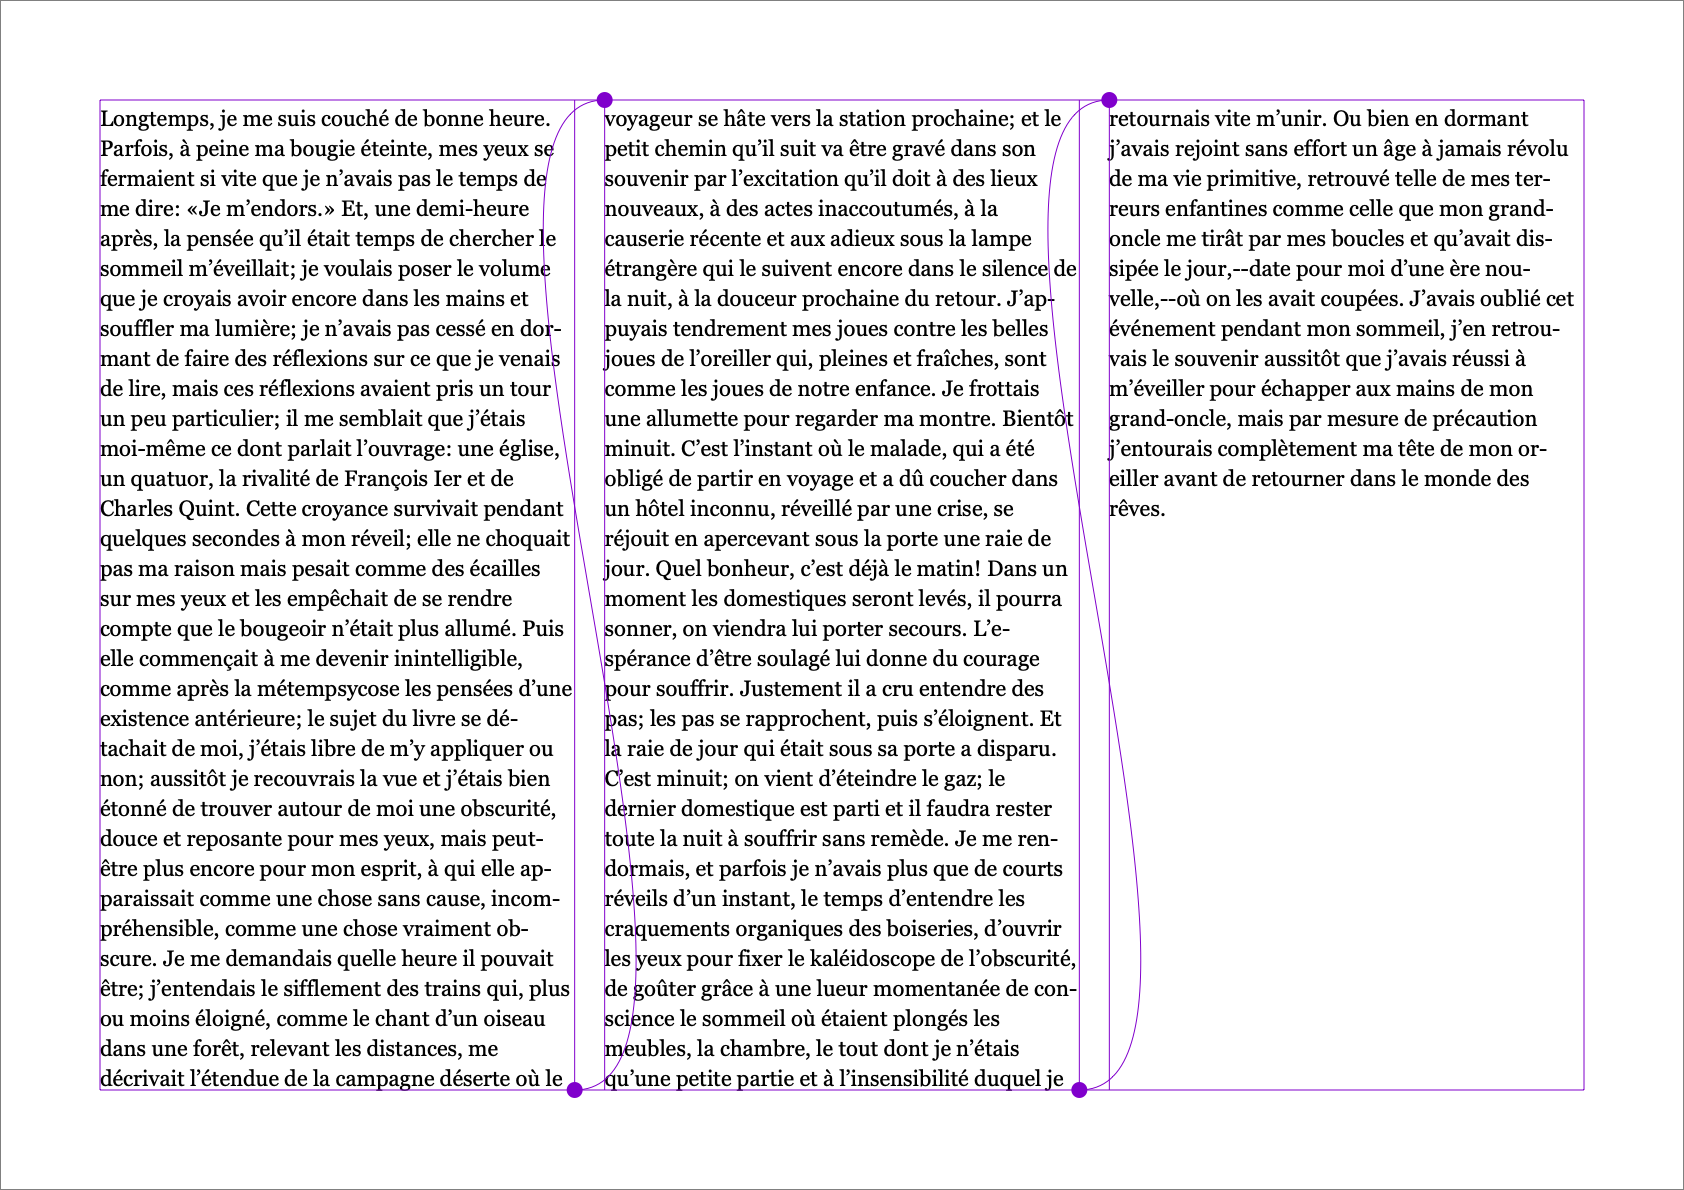
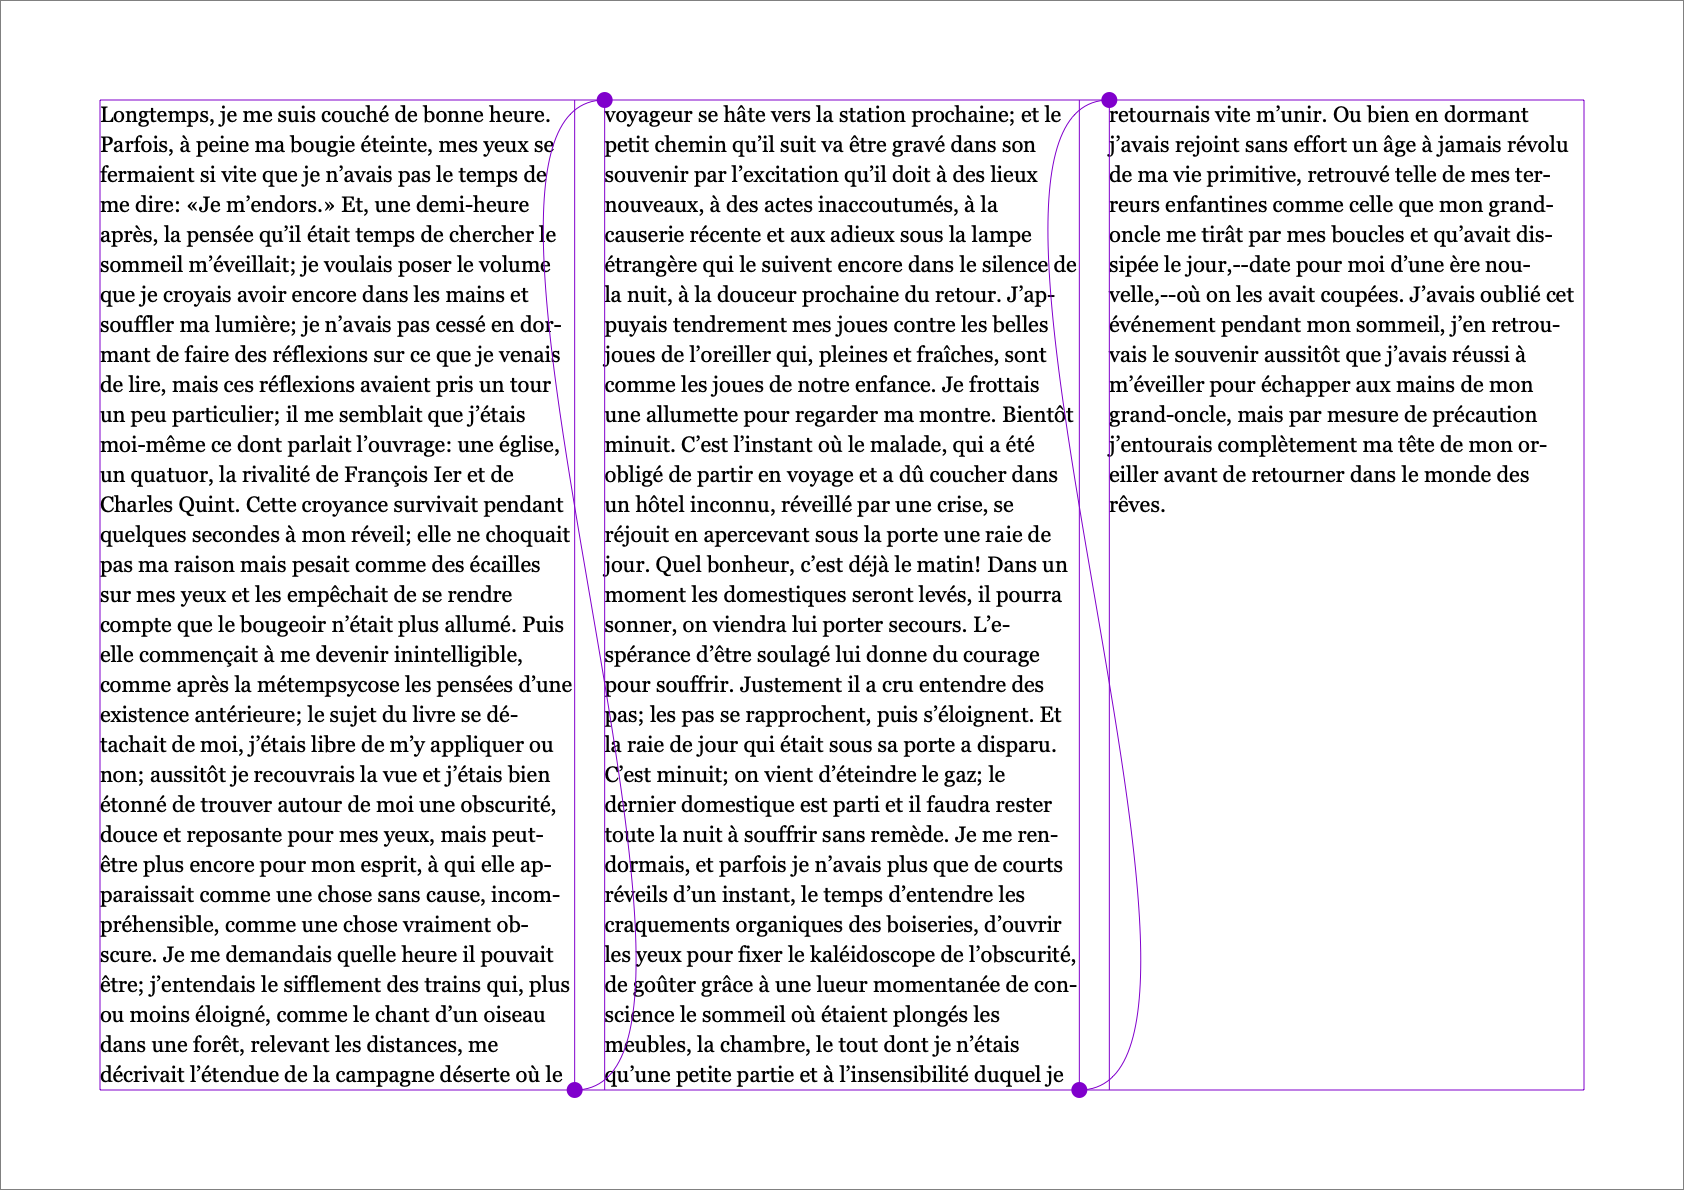
Add support for text overflow testing

Changed region(s): [[0.0618, 0.0933, 0.9264, 0.9328]]

diff --git a/drawBotGrid/docs/snippet-148-textOverflowTestMode.py b/drawBotGrid/docs/snippet-148-textOverflowTestMode.py
@@ -1,0 +1,42 @@
+from drawBot import *
+import pathlib
+
+# <include> ----------------------------------------
+from drawBotGrid import columnTextBox, textOverflowTestMode
+
+newPage("A4Landscape")
+
+# </include> ----------------------------------------
+fill(1, 1, 1, .5)
+rect(0, 0, width(), height())
+# <include> ----------------------------------------
+
+fill(0)
+font("Georgia")
+hyphenation(True)
+
+font_size = 11
+line_height_ratio = 1.3
+fontSize(font_size)
+lineHeight(font_size*line_height_ratio)
+
+text = """Longtemps, je me suis couché de bonne heure. Parfois, à peine ma bougie éteinte, mes yeux se fermaient si vite que je n’avais pas le temps de me dire: «Je m’endors.» Et, une demi-heure après, la pensée qu’il était temps de chercher le sommeil m’éveillait; je voulais poser le volume que je croyais avoir encore dans les mains et souffler ma lumière; je n’avais pas cessé en dormant de faire des réflexions sur ce que je venais de lire, mais ces réflexions avaient pris un tour un peu particulier; il me semblait que j’étais moi-même ce dont parlait l’ouvrage: une église, un quatuor, la rivalité de François Ier et de Charles Quint. Cette croyance survivait pendant quelques secondes à mon réveil; elle ne choquait pas ma raison mais pesait comme des écailles sur mes yeux et les empêchait de se rendre compte que le bougeoir n’était plus allumé. Puis elle commençait à me devenir inintelligible, comme après la métempsycose les pensées d’une existence antérieure; le sujet du livre se détachait de moi, j’étais libre de m’y appliquer ou non; aussitôt je recouvrais la vue et j’étais bien étonné de trouver autour de moi une obscurité, douce et reposante pour mes yeux, mais peut-être plus encore pour mon esprit, à qui elle apparaissait comme une chose sans cause, incompréhensible, comme une chose vraiment obscure. Je me demandais quelle heure il pouvait être; j’entendais le sifflement des trains qui, plus ou moins éloigné, comme le chant d’un oiseau dans une forêt, relevant les distances, me décrivait l’étendue de la campagne déserte où le voyageur se hâte vers la station prochaine; et le petit chemin qu’il suit va être gravé dans son souvenir par l’excitation qu’il doit à des lieux nouveaux, à des actes inaccoutumés, à la causerie récente et aux adieux sous la lampe étrangère qui le suivent encore dans le silence de la nuit, à la douceur prochaine du retour. J’appuyais tendrement mes joues contre les belles joues de l’oreiller qui, pleines et fraîches, sont comme les joues de notre enfance. Je frottais une allumette pour regarder ma montre. Bientôt minuit. C’est l’instant où le malade, qui a été obligé de partir en voyage et a dû coucher dans un hôtel inconnu, réveillé par une crise, se réjouit en apercevant sous la porte une raie de jour. Quel bonheur, c’est déjà le matin! Dans un moment les domestiques seront levés, il pourra sonner, on viendra lui porter secours. L’espérance d’être soulagé lui donne du courage pour souffrir. Justement il a cru entendre des pas; les pas se rapprochent, puis s’éloignent. Et la raie de jour qui était sous sa porte a disparu. C’est minuit; on vient d’éteindre le gaz; le dernier domestique est parti et il faudra rester toute la nuit à souffrir sans remède. Je me rendormais, et parfois je n’avais plus que de courts réveils d’un instant, le temps d’entendre les craquements organiques des boiseries, d’ouvrir les yeux pour fixer le kaléidoscope de l’obscurité, de goûter grâce à une lueur momentanée de conscience le sommeil où étaient plongés les meubles, la chambre, le tout dont je n’étais qu’une petite partie et à l’insensibilité duquel je retournais vite m’unir. Ou bien en dormant j’avais rejoint sans effort un âge à jamais révolu de ma vie primitive, retrouvé telle de mes terreurs enfantines comme celle que mon grand-oncle me tirât par mes boucles et qu’avait dissipée le jour,--date pour moi d’une ère nouvelle,--où on les avait coupées. J’avais oublié cet événement pendant mon sommeil, j’en retrouvais le souvenir aussitôt que j’avais réussi à m’éveiller pour échapper aux mains de mon grand-oncle, mais par mesure de précaution j’entourais complètement ma tête de mon oreiller avant de retourner dans le monde des rêves."""*4
+overflow = text
+
+textOverflowTestMode(True)
+while len(overflow):
+	font_size -= 1
+	fontSize(font_size)
+	lineHeight(font_size*line_height_ratio)
+	overflow = columnTextBox(text, (50, 50, width()-100, height()-100), subdivisions=3, gutter=15, draw_grid=True)
+textOverflowTestMode(False)
+
+columnTextBox(text, (50, 50, width()-100, height()-100), subdivisions=3, gutter=15, draw_grid=True)
+
+# </include> ----------------------------------------
+
+fill(None)
+stroke(.5)
+rect(0, 0, width(), height())
+out_path = pathlib.Path(__file__).with_suffix(".png")
+saveImage(out_path, imageResolution=144)

diff --git a/drawBotGrid/text.py b/drawBotGrid/text.py
@@ -4,6 +4,19 @@ import math
 
 # ----------------------------------------
 
+_textbox_funct = db.textBox
+
+def set_text_overflow_test_mode(bool_):
+    global _textbox_funct
+    if bool_ == False:
+        _textbox_funct = db.textBox
+    else:
+        _textbox_funct = db.textOverflow
+
+textOverflowTestMode = set_text_overflow_test_mode
+
+# ----------------------------------------
+
 def baseline_grid_textBox(txt, 
                 box, 
                 baseline_grid, 
@@ -48,7 +61,7 @@ def baseline_grid_textBox(txt,
             target_line = baseline_grid.closest_line_below_coordinate(y + h/2 - absolute_cap_height/2)
             shift = target_line - mid_line_y
 
-        overflow = db.textBox(txt, (x, y+shift, w, h), align=align)
+        overflow = _textbox_funct(txt, (x, y+shift, w, h), align=align)
         return overflow
 
 baselineGridTextBox = baseline_grid_textBox
@@ -83,13 +96,14 @@ def _column_textBox_base(txt,
             sub_box = (col, columns.bottom, columns*1, columns.height)
             if baseline_grid:
                 overflow = baseline_grid_textBox(overflow, 
-                                                    sub_box, 
-                                                    baseline_grid,
-                                                    align=align)
+                                                 sub_box, 
+                                                 baseline_grid,
+                                                 align=align)
             else:
-                overflow = db.textBox(overflow, 
-                                      sub_box, 
-                                      align=align)
+                overflow = _textbox_funct(overflow, 
+                                         sub_box, 
+                                         align=align)
+
 
     if draw_grid:
         grid_color =  (.5, 0, .8, 1)
@@ -121,6 +135,7 @@ def _column_textBox_base(txt,
         
     return overflow
 
+
 # ----------------------------------------
 
 def _get_text_flow_path(xy1, xy2):
@@ -141,6 +156,7 @@ def _draw_point(xy, radius=2):
 # ----------------------------------------
 
 def vertical_align_textBox(txt, box, align=None, vertical_align="top"):
+
     assert vertical_align in ("top", "bottom", "center")
 
     x, y, w, h = correct_box_direction(box)
@@ -170,10 +186,13 @@ def vertical_align_textBox(txt, box, align=None, vertical_align="top"):
         margin = (h - text_h) / 2
         shift = y + margin - bottom
     
-    db.textBox(txt, (x, y+shift, w, h), align=align)
+    box = (x, y+shift, w, h)
+    overflow = _textbox_funct(txt, box, align=align)
+    return overflow
 
 
 verticalAlignTextBox = vertical_align_textBox
+
 
 # ----------------------------------------
 

diff --git a/drawBotGrid/__init__.py b/drawBotGrid/__init__.py
@@ -1,3 +1,3 @@
 from .grid import ColumnGrid, RowGrid, Grid, BaselineGrid
-from .text import baselineGridTextBox, verticalAlignTextBox, baselineHeight, columnTextBox, columnBaselineGridTextBox
+from .text import baselineGridTextBox, verticalAlignTextBox, baselineHeight, columnTextBox, columnBaselineGridTextBox, textOverflowTestMode
 from .image import imageBox, imageAtSize

diff --git a/setup.py b/setup.py
@@ -7,7 +7,7 @@ from setuptools import setup
 #         return f.read()
 
 setup(name="drawBotGrid",
-      version="0.1.1",
+      version="0.1.2",
       description="a little helper for grid based layout in DrawBot",
       long_description="TBD",
       classifiers=[

diff --git a/README.md b/README.md
@@ -440,6 +440,44 @@ columns.draw(show_index=True)
 
 ![ColumnGrid margins](drawBotGrid/docs/snippet-140-verticalAlignTextBox-basics.png)
 
+# textOverflowTestMode
+
+Sometimes, you need to know if a textBox like object is overflowing before drawing it (you may want to adjust line spacing, or the number columns accordingly).
+`textOverflowTestMode(True)` will trigger a special mode where all drawBotGrid textBox related object will return overflow but not be drawn on the page. `textOverflowTestMode(False)` will reverse back to default, where textBox related objects are drawn as usual.
+
+```python
+from drawBotGrid import columnTextBox, textOverflowTestMode
+
+newPage("A4Landscape")
+
+
+fill(0)
+font("Georgia")
+hyphenation(True)
+
+font_size = 11
+line_height_ratio = 1.3
+fontSize(font_size)
+lineHeight(font_size*line_height_ratio)
+
+text = """Longtemps, je me suis couché de bonne heure. Parfois, à peine ma bougie éteinte, mes yeux se fermaient si vite que je n’avais pas le temps de me dire: «Je m’endors.» Et, une demi-heure après, la pensée qu’il était temps de chercher le sommeil m’éveillait; je voulais poser le volume que je croyais avoir encore dans les mains et souffler ma lumière; je n’avais pas cessé en dormant de faire des réflexions sur ce que je venais de lire, mais ces réflexions avaient pris un tour un peu particulier; il me semblait que j’étais moi-même ce dont parlait l’ouvrage: une église, un quatuor, la rivalité de François Ier et de Charles Quint. Cette croyance survivait pendant quelques secondes à mon réveil; elle ne choquait pas ma raison mais pesait comme des écailles sur mes yeux et les empêchait de se rendre compte que le bougeoir n’était plus allumé. Puis elle commençait à me devenir inintelligible, comme après la métempsycose les pensées d’une existence antérieure; le sujet du livre se détachait de moi, j’étais libre de m’y appliquer ou non; aussitôt je recouvrais la vue et j’étais bien étonné de trouver autour de moi une obscurité, douce et reposante pour mes yeux, mais peut-être plus encore pour mon esprit, à qui elle apparaissait comme une chose sans cause, incompréhensible, comme une chose vraiment obscure. Je me demandais quelle heure il pouvait être; j’entendais le sifflement des trains qui, plus ou moins éloigné, comme le chant d’un oiseau dans une forêt, relevant les distances, me décrivait l’étendue de la campagne déserte où le voyageur se hâte vers la station prochaine; et le petit chemin qu’il suit va être gravé dans son souvenir par l’excitation qu’il doit à des lieux nouveaux, à des actes inaccoutumés, à la causerie récente et aux adieux sous la lampe étrangère qui le suivent encore dans le silence de la nuit, à la douceur prochaine du retour. J’appuyais tendrement mes joues contre les belles joues de l’oreiller qui, pleines et fraîches, sont comme les joues de notre enfance. Je frottais une allumette pour regarder ma montre. Bientôt minuit. C’est l’instant où le malade, qui a été obligé de partir en voyage et a dû coucher dans un hôtel inconnu, réveillé par une crise, se réjouit en apercevant sous la porte une raie de jour. Quel bonheur, c’est déjà le matin! Dans un moment les domestiques seront levés, il pourra sonner, on viendra lui porter secours. L’espérance d’être soulagé lui donne du courage pour souffrir. Justement il a cru entendre des pas; les pas se rapprochent, puis s’éloignent. Et la raie de jour qui était sous sa porte a disparu. C’est minuit; on vient d’éteindre le gaz; le dernier domestique est parti et il faudra rester toute la nuit à souffrir sans remède. Je me rendormais, et parfois je n’avais plus que de courts réveils d’un instant, le temps d’entendre les craquements organiques des boiseries, d’ouvrir les yeux pour fixer le kaléidoscope de l’obscurité, de goûter grâce à une lueur momentanée de conscience le sommeil où étaient plongés les meubles, la chambre, le tout dont je n’étais qu’une petite partie et à l’insensibilité duquel je retournais vite m’unir. Ou bien en dormant j’avais rejoint sans effort un âge à jamais révolu de ma vie primitive, retrouvé telle de mes terreurs enfantines comme celle que mon grand-oncle me tirât par mes boucles et qu’avait dissipée le jour,--date pour moi d’une ère nouvelle,--où on les avait coupées. J’avais oublié cet événement pendant mon sommeil, j’en retrouvais le souvenir aussitôt que j’avais réussi à m’éveiller pour échapper aux mains de mon grand-oncle, mais par mesure de précaution j’entourais complètement ma tête de mon oreiller avant de retourner dans le monde des rêves."""*4
+overflow = text
+
+textOverflowTestMode(True)
+while len(overflow):
+	font_size -= 1
+	fontSize(font_size)
+	lineHeight(font_size*line_height_ratio)
+	overflow = columnTextBox(text, (50, 50, width()-100, height()-100), subdivisions=3, gutter=15, draw_grid=True)
+textOverflowTestMode(False)
+
+columnTextBox(text, (50, 50, width()-100, height()-100), subdivisions=3, gutter=15, draw_grid=True)
+
+```
+
+![ColumnGrid margins](drawBotGrid/docs/snippet-148-textOverflowTestMode.png)
+
+*Note: This departs quite a bit from the DrawBot way handling text overflow testing and is subject to change :)*
 
 # imageBox
 
@@ -459,7 +497,7 @@ font("Georgia")
 fontSize(14)
 columns = ColumnGrid.from_margins((-50, -80, -50, -80), subdivisions=3)
 
-img_path = "/Users/mathieu/Dropbox/20 current dev/Custom Modules/DrawBotGrid/drawBotGrid/docs/drawMech-small.jpg"
+img_path = "https://raw.githubusercontent.com/mathieureguer/drawbotgrid/main/drawBotGrid/docs/drawMech-small.jpg"
 imageBox(img_path, (columns[0], columns.bottom, columns*1, columns.height), fitting="crop", anchor=("center", "top"))
 textBox('fitting="crop"', (columns[0], columns.bottom-40, columns*1, 30), align="center")
 
@@ -534,7 +572,7 @@ newPage("A4Landscape")
 grid = Grid.from_margins((-50, -50, -50, -50), column_subdivisions=10, row_subdivisions=6)
 grid.draw()
 
-img_path = "/Users/mathieu/Dropbox/20 current dev/Custom Modules/DrawBotGrid/drawBotGrid/docs/drawMech-small.jpg"
+img_path = "https://raw.githubusercontent.com/mathieureguer/drawbotgrid/main/drawBotGrid/docs/drawMech-small.jpg"
 imageBox(img_path, (grid.columns[0], grid.rows[0], grid.columns*4, grid.rows*4), draw_box_frame=True, fitting="crop", anchor=("center", "top"))
 imageBox(img_path, (grid.columns[0], grid.rows[4], grid.columns*4, grid.rows*2), draw_box_frame=True, fitting="crop", anchor=("center", "top"))
 imageBox(img_path, (grid.columns[4], grid.rows[0], grid.columns*3, grid.rows*4), draw_box_frame=True, fitting="crop", anchor=("center", "top"))

diff --git a/drawBotGrid/docs/readme-prebuild.md b/drawBotGrid/docs/readme-prebuild.md
@@ -175,6 +175,18 @@ Setting the optional argument `draw_grid=True` will draw the underlying grid.
 
 ![ColumnGrid margins](drawBotGrid/docs/snippet-140-verticalAlignTextBox-basics.png)
 
+# textOverflowTestMode
+
+Sometimes, you need to know if a textBox like object is overflowing before drawing it (you may want to adjust line spacing, or the number columns accordingly).
+`textOverflowTestMode(True)` will trigger a special mode where all drawBotGrid textBox related object will return overflow but not be drawn on the page. `textOverflowTestMode(False)` will reverse back to default, where textBox related objects are drawn as usual.
+
+```python
+<insert-file: snippet-148-textOverflowTestMode.py>
+```
+
+![ColumnGrid margins](drawBotGrid/docs/snippet-148-textOverflowTestMode.png)
+
+*Note: This departs quite a bit from the DrawBot way handling text overflow testing and is subject to change :)*
 
 # imageBox
 
